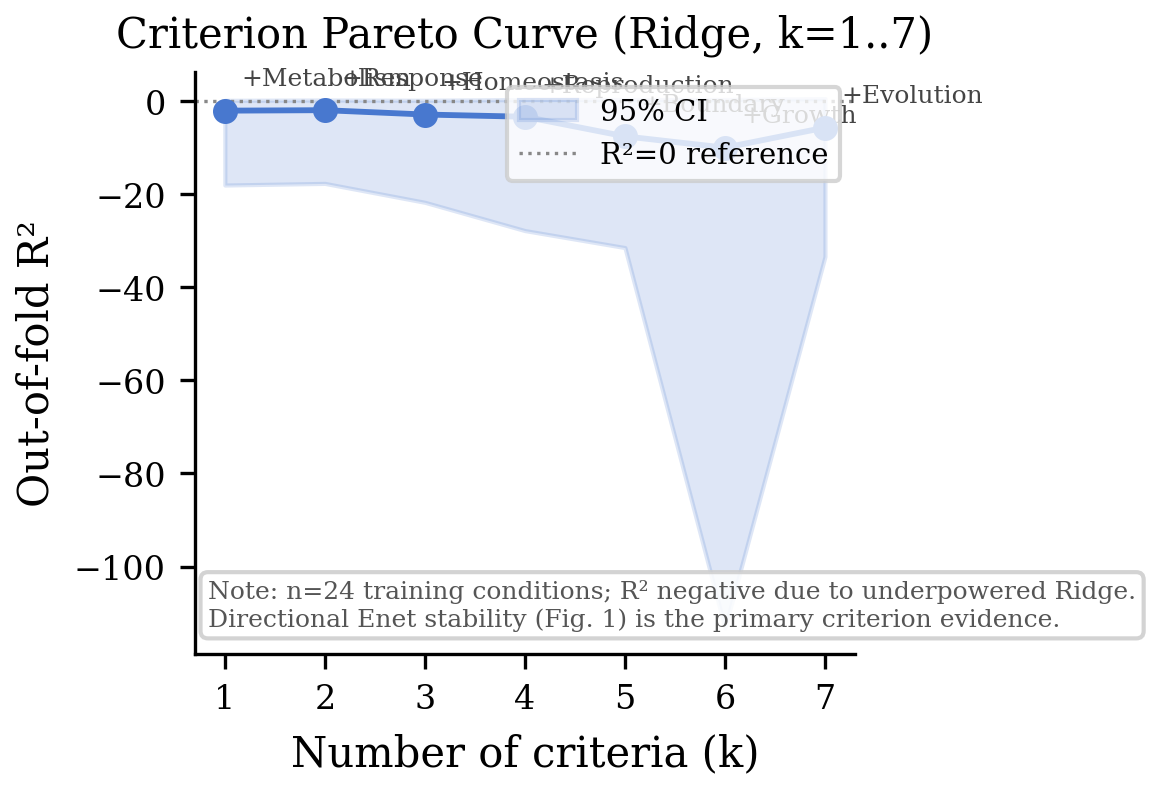
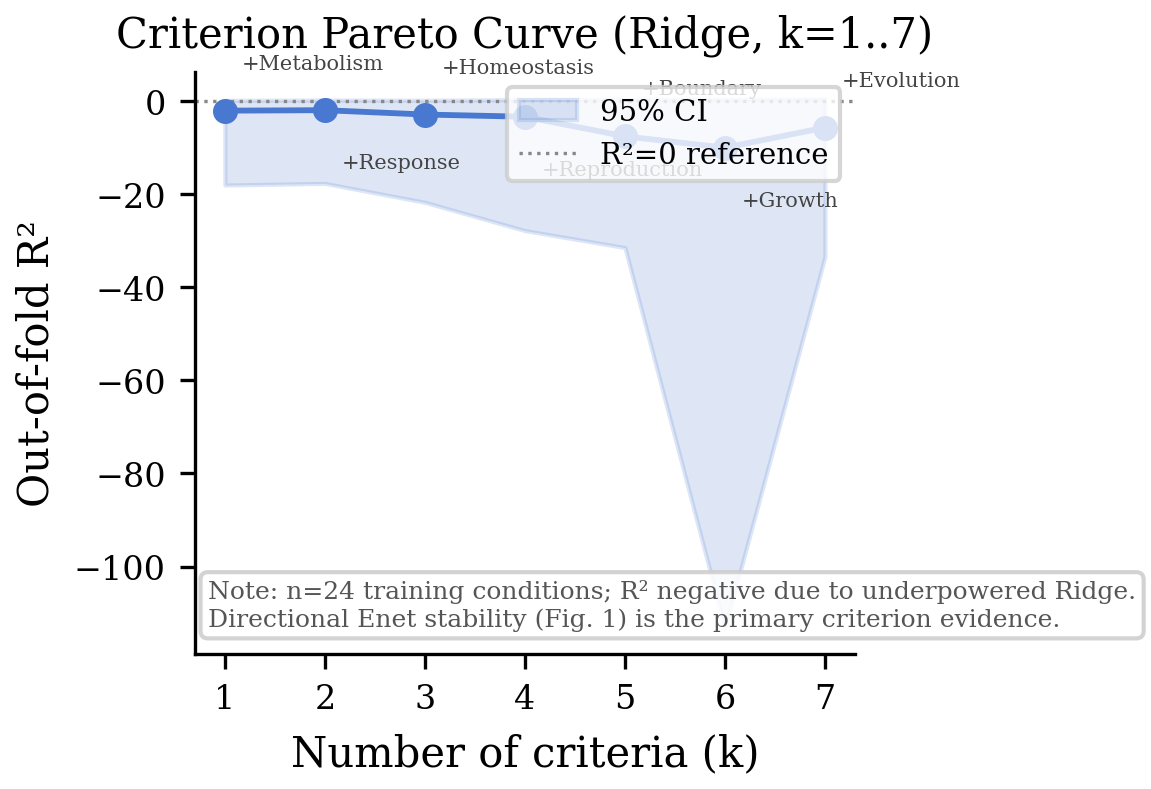
fix: resolve remaining figure overlap and clipping issues
- Architecture: widen organism/component boxes, abbreviate labels to fit
- Timeseries: move legend above plot (4-col) to avoid data overlap
- Criterion Pareto: alternate annotation y-offsets to prevent text stacking
- Surrogate Pareto: reposition elbow annotation away from data point

diff --git a/scripts/figures/fig_architecture.py b/scripts/figures/fig_architecture.py
@@ -42,7 +42,7 @@ def _draw_environment(ax: plt.Axes) -> None:
 def _draw_organism_box(ax: plt.Axes, ox: float, oy: float) -> None:
     org_rect = mpatches.FancyBboxPatch(
         (ox, oy),
-        4.8,
+        5.4,
         4.2,
         boxstyle="round,pad=0.08",
         facecolor="#FFFFFF",
@@ -51,7 +51,7 @@ def _draw_organism_box(ax: plt.Axes, ox: float, oy: float) -> None:
     )
     ax.add_patch(org_rect)
     ax.text(
-        ox + 2.4,
+        ox + 2.7,
         oy + 3.85,
         "Organism (10-50 per environment)",
         ha="center",
@@ -65,21 +65,21 @@ def _draw_organism_box(ax: plt.Axes, ox: float, oy: float) -> None:
 def _draw_organism_components(ax: plt.Axes, ox: float, oy: float) -> None:
     # Internal components (wider boxes for the single organism)
     components = [
-        ("Genome\n(7 segments, 256 floats)", ox + 0.2, oy + 2.7, 2.1, 0.85, "#E69F00"),
-        ("NN Controller\n(8>16>4, 212 wt)", ox + 2.5, oy + 2.7, 2.1, 0.85, "#009E73"),
+        ("Genome\n(7 seg, 256 floats)", ox + 0.2, oy + 2.7, 2.5, 0.85, "#E69F00"),
+        ("NN Controller\n(8>16>4, 212 wt)", ox + 2.85, oy + 2.7, 2.35, 0.85, "#009E73"),
         (
             "Graph Metabolism\n(2-4 nodes, directed)",
             ox + 0.2,
             oy + 1.3,
-            2.1,
+            2.5,
             0.85,
             "#D55E00",
         ),
         (
-            "Boundary Maintenance\n(10-50 swarm agents)",
-            ox + 2.5,
+            "Boundary Maint.\n(10-50 swarm agents)",
+            ox + 2.85,
             oy + 1.3,
-            2.1,
+            2.35,
             0.85,
             "#56B4E9",
         ),
@@ -121,28 +121,28 @@ def _draw_organism_arrows(ax: plt.Axes, ox: float, oy: float) -> None:
     # Arrows: Genome -> NN, Genome -> Metabolism
     ax.annotate(
         "",
-        xy=(ox + 2.5, oy + 3.12),
-        xytext=(ox + 2.3, oy + 3.12),
+        xy=(ox + 2.85, oy + 3.12),
+        xytext=(ox + 2.7, oy + 3.12),
         arrowprops=dict(arrowstyle="->", color="#888", lw=0.8),
     )
     ax.annotate(
         "",
-        xy=(ox + 1.25, oy + 2.7),
-        xytext=(ox + 1.25, oy + 2.15),
+        xy=(ox + 1.45, oy + 2.7),
+        xytext=(ox + 1.45, oy + 2.15),
         arrowprops=dict(arrowstyle="->", color="#888", lw=0.8),
     )
     # NN -> Boundary (response to stimuli)
     ax.annotate(
         "",
-        xy=(ox + 3.55, oy + 2.7),
-        xytext=(ox + 3.55, oy + 2.15),
+        xy=(ox + 4.02, oy + 2.7),
+        xytext=(ox + 4.02, oy + 2.15),
         arrowprops=dict(arrowstyle="->", color="#888", lw=0.8),
     )
     # Metabolism <-> Boundary (energy <-> integrity)
     ax.annotate(
         "",
-        xy=(ox + 2.5, oy + 1.72),
-        xytext=(ox + 2.3, oy + 1.72),
+        xy=(ox + 2.85, oy + 1.72),
+        xytext=(ox + 2.7, oy + 1.72),
         arrowprops=dict(arrowstyle="<->", color="#888", lw=0.8),
     )
 
@@ -150,7 +150,7 @@ def _draw_organism_arrows(ax: plt.Axes, ox: float, oy: float) -> None:
 def _draw_internal_state_label(ax: plt.Axes, ox: float, oy: float) -> None:
     # Internal state label
     ax.text(
-        ox + 2.4,
+        ox + 2.7,
         oy + 0.45,
         "Internal State Vector (homeostatic regulation)",
         ha="center",
@@ -217,7 +217,7 @@ def generate_architecture() -> None:
     _draw_internal_state_label(ax, ox, oy)
 
     # Criteria mapping sidebar (right side, clearly separated)
-    _draw_criteria_sidebar(ax, 6.2)
+    _draw_criteria_sidebar(ax, 6.6)
 
     fig.tight_layout()
     fig.savefig(FIG_DIR / "fig_architecture.pdf", format="pdf")

diff --git a/scripts/plot_reduction_figures.py b/scripts/plot_reduction_figures.py
@@ -152,15 +152,17 @@ def plot_criterion_pareto(ax: plt.Axes, crit_data: dict) -> None:
     ax.fill_between(ks, lo, hi, alpha=0.18, color="#4878CF", label="95% CI")
     ax.axhline(0, color="#888888", linestyle=":", linewidth=0.8, label="R²=0 reference")
 
-    # Annotate each point with the added criterion
-    for pt in curve:
+    # Annotate each point with the added criterion, alternating offsets to avoid overlap
+    offsets = [(4, 10), (4, -14), (4, 10), (4, -14), (4, 10), (4, -14), (4, 10)]
+    for i, pt in enumerate(curve):
         label = CRITERION_LABELS.get(pt["added_feature"], pt["added_feature"])
+        ofs = offsets[i % len(offsets)]
         ax.annotate(
             f"+{label}",
             (pt["k"], pt["r2_mean"]),
             textcoords="offset points",
-            xytext=(4, 6),
-            fontsize=6,
+            xytext=ofs,
+            fontsize=5,
             color="#444444",
         )
 
@@ -218,8 +220,8 @@ def plot_surrogate_pareto(ax: plt.Axes, surr_data: dict) -> None:
     ax.annotate(
         "Elbow (k=3)\n+energy_autocorr",
         (3, elbow_r2),
-        xytext=(3.4, elbow_r2 - 0.04),
-        fontsize=6.5,
+        xytext=(4.2, elbow_r2 + 0.12),
+        fontsize=6,
         color="#222222",
         arrowprops=dict(arrowstyle="->", lw=0.8, color="#555555"),
     )

diff --git a/scripts/figures/fig_timeseries.py b/scripts/figures/fig_timeseries.py
@@ -56,7 +56,16 @@ def generate_timeseries(data: list[dict]) -> None:
     ax.set_ylabel("Mean Alive Count ($n$=30)")
     ax.set_xlim(0, 2000)
     ax.set_ylim(bottom=0)
-    ax.legend(loc="upper left", ncol=2, framealpha=0.9, edgecolor="0.8", fontsize=6)
+    ax.legend(
+        loc="upper center",
+        bbox_to_anchor=(0.5, 1.28),
+        ncol=4,
+        framealpha=0.9,
+        edgecolor="0.8",
+        fontsize=5,
+        columnspacing=0.8,
+        handletextpad=0.4,
+    )
     ax.spines["top"].set_visible(False)
     ax.spines["right"].set_visible(False)
 
